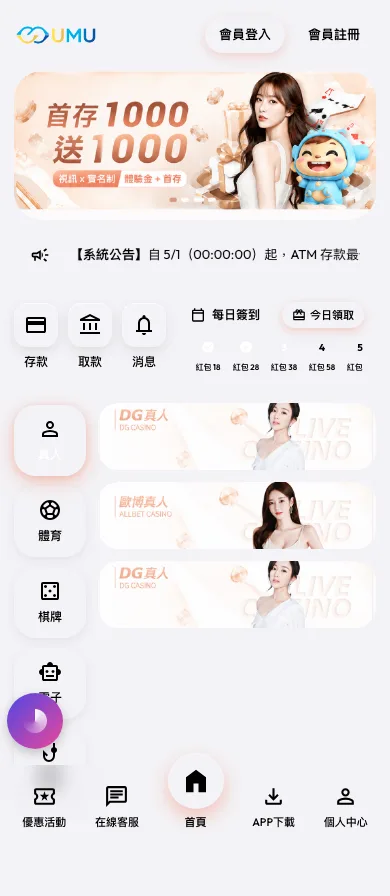
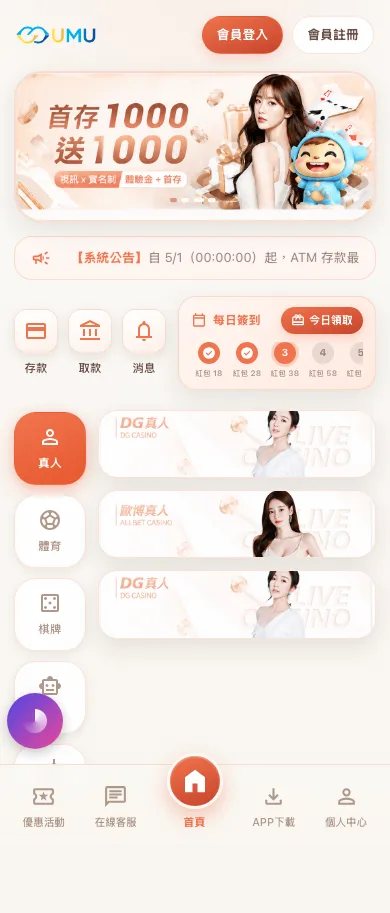
fix(noya-lagoon): 修正 c26 配色 data-theme selector，配色正確且可切換
根因：
- noya-lagoon 是從 noya-reef 複製，_tokens.scss / _variants.scss 的
  selector 仍寫死 [data-theme="noya-reef"]，但 demo host 實際掛的是
  data-theme="noya-lagoon"
- 結果：token 不命中 → 配色走 fallback（看起來不對）；
  [data-theme-color] 變體也不命中 → FAB 切換配色完全無效

修正：
- _tokens.scss / _variants.scss 的 selector 改為 [data-theme="noya-lagoon"]
  （色值與 c13 完全相同，故配色與 c13 一致）
- 實測 coral / mango / berry：FAB 可切換，--color-primary 對應
  #f0744e / #eaa64e / #e0668a，與 c13 珊瑚一致
- 重新產出 6 張 base 預覽（正確珊瑚配色）

Claude-Session: https://claude.ai/code/session_01GTjpCxt7PCpP8ucJT21ips

diff --git a/src/themes/noya-lagoon/_variants.scss b/src/themes/noya-lagoon/_variants.scss
@@ -1,9 +1,9 @@
-// noya-reef 版面替代配色
-// [data-theme="noya-reef"][data-theme-color="xxx"] 雙重 selector
+// noya-lagoon 版面替代配色
+// [data-theme="noya-lagoon"][data-theme-color="xxx"] 雙重 selector
 // 每個 variant 覆寫元件實際讀到的對比 token
 
 // 芒果黃：accent 改暖芒果黃（活力陽光）
-[data-theme="noya-reef"][data-theme-color="mango"] {
+[data-theme="noya-lagoon"][data-theme-color="mango"] {
   --color-primary: #eaa64e;
   --color-secondary: #f0bc6a;
   --color-accent: #f8d89a;
@@ -65,7 +65,7 @@
 }
 
 // 莓果粉：accent 改深玫瑰莓果（甜蜜浪漫）
-[data-theme="noya-reef"][data-theme-color="berry"] {
+[data-theme="noya-lagoon"][data-theme-color="berry"] {
   --color-primary: #e0668a;
   --color-secondary: #f080a0;
   --color-accent: #f8b0c8;

diff --git a/src/themes/noya-lagoon/_tokens.scss b/src/themes/noya-lagoon/_tokens.scss
@@ -1,4 +1,4 @@
-// noya-reef（珊瑚奶油）token 主檔
+// noya-lagoon（珊瑚奶油）token 主檔
 // 主視覺特徵：奶油近白底（light theme）+ 珊瑚橙 #f0744e 主色
 // Squircle 設計語言：圓角 ~30% border-radius，柔和有機感
 // 左側按鈕：大 squircle icon 按鈕，icon 置中 + 下方 label，active = 珊瑚漸層填底 + 柔影
@@ -13,7 +13,7 @@
 // --text-primary / --text-muted / --border / --shadow
 // --gradient-hero / --gradient-cta
 
-[data-theme="noya-reef"] {
+[data-theme="noya-lagoon"] {
   // ─────── 12 公約變數（預設 coral）───────
   --color-primary: #f0744e; // 珊瑚橙主色
   --color-secondary: #f59270; // 珊瑚橙柔光
